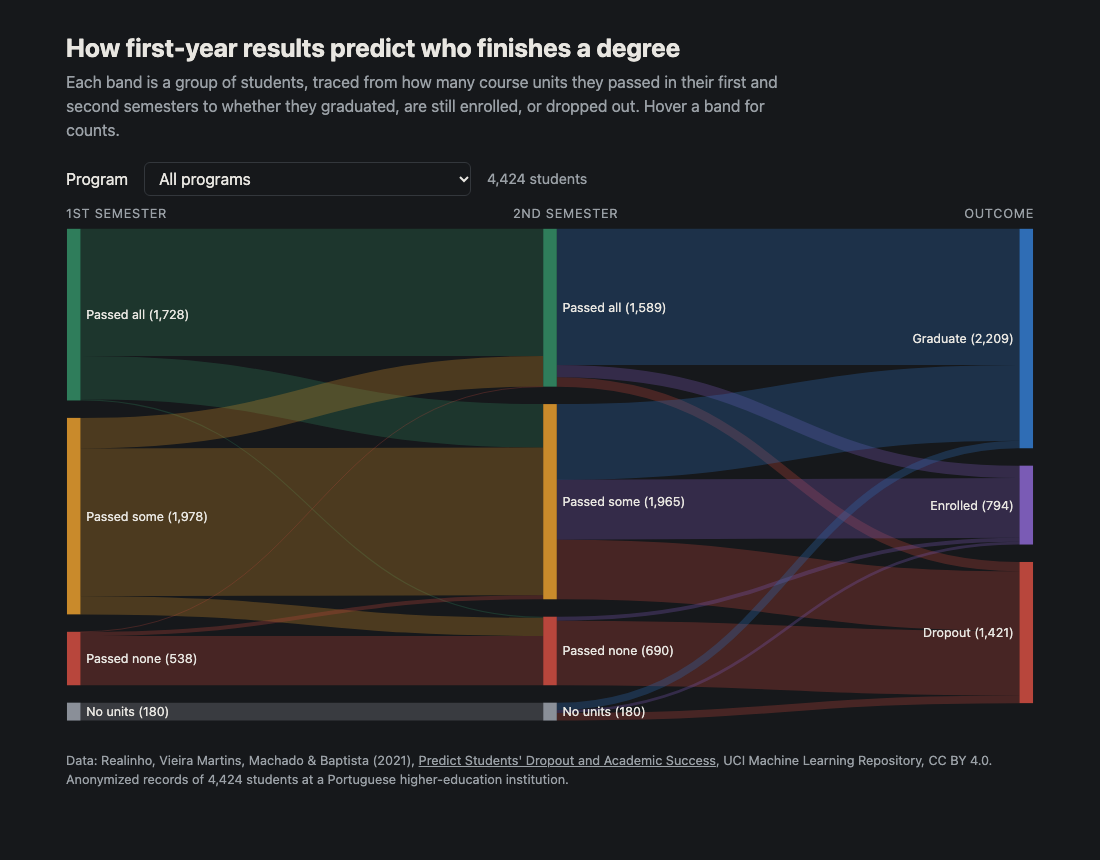
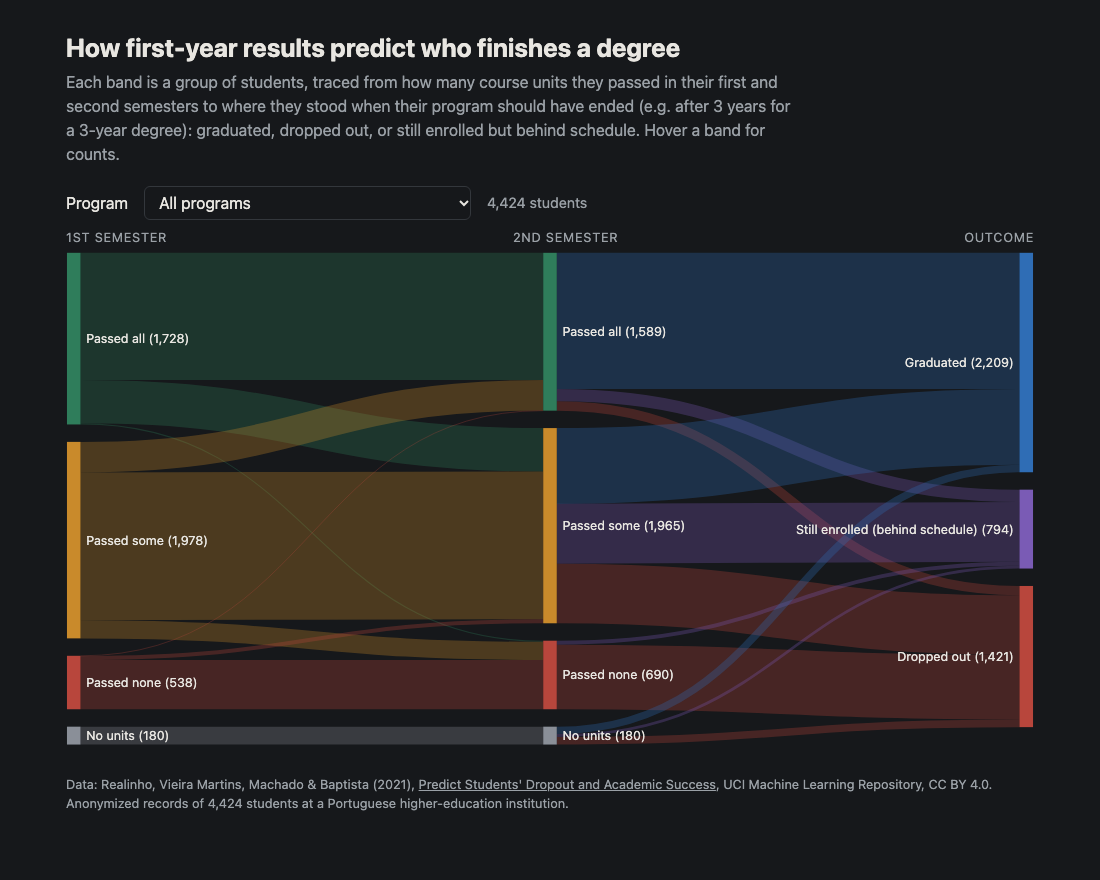
Clarify "Enrolled" outcome and refresh screenshot
The dataset measures outcome at the end of the program's normal
duration, so "Enrolled" means still studying but behind schedule.
Relabel outcomes (Graduated / Still enrolled (behind schedule) /
Dropped out) and explain it on the page and in the README.

diff --git a/docs/index.html b/docs/index.html
@@ -37,7 +37,8 @@
 <main>
   <h1>How first-year results predict who finishes a degree</h1>
   <p>Each band is a group of students, traced from how many course units they passed in their first and second
-     semesters to whether they graduated, are still enrolled, or dropped out. Hover a band for counts.</p>
+     semesters to where they stood when their program should have ended (e.g. after 3 years for a 3-year degree):
+     graduated, dropped out, or still enrolled but behind schedule. Hover a band for counts.</p>
 
   <div class="controls">
     <label for="program">Program</label>
@@ -65,7 +66,8 @@ const colorOf = name => {
   if (name.endsWith("Passed some")) return v("--some");
   if (name.endsWith("Passed none")) return v("--none");
   if (name.endsWith("No units")) return v("--nounits");
-  return { Graduate: v("--grad"), Enrolled: v("--enr"), Dropout: v("--drop") }[name];
+  if (name.startsWith("Still enrolled")) return v("--enr");
+  return { "Graduated": v("--grad"), "Dropped out": v("--drop") }[name];
 };
 const label = name => name.replace(/^Sem \d: /, "");
 const fmt = d3.format(",");

diff --git a/build_flows.py b/build_flows.py
@@ -41,6 +41,11 @@ PROGRAMS = {
 ALL = "All programs"
 RESULTS = ["Passed all", "Passed some", "Passed none", "No units"]
 OUTCOMES = ["Graduate", "Enrolled", "Dropout"]
+# The dataset's outcome is measured at the end of the program's normal duration
+# (e.g. 3 years for a 3-year degree), so "Enrolled" means still studying but
+# not finished on time.
+OUTCOME_LABELS = {"Graduate": "Graduated", "Enrolled": "Still enrolled (behind schedule)",
+                  "Dropout": "Dropped out"}
 
 
 def semester_result(row: dict, sem: str) -> str:
@@ -54,7 +59,8 @@ def semester_result(row: dict, sem: str) -> str:
 
 
 def build_graph(rows: list[dict]) -> dict:
-    stages = [[f"Sem 1: {r}" for r in RESULTS], [f"Sem 2: {r}" for r in RESULTS], OUTCOMES]
+    stages = [[f"Sem 1: {r}" for r in RESULTS], [f"Sem 2: {r}" for r in RESULTS],
+              [OUTCOME_LABELS[o] for o in OUTCOMES]]
     names = [n for stage in stages for n in stage]
     index = {n: i for i, n in enumerate(names)}
 
@@ -63,7 +69,7 @@ def build_graph(rows: list[dict]) -> dict:
         s1 = f"Sem 1: {semester_result(row, '1st')}"
         s2 = f"Sem 2: {semester_result(row, '2nd')}"
         counts[(s1, s2)] += 1
-        counts[(s2, row["Target"])] += 1
+        counts[(s2, OUTCOME_LABELS[row["Target"]])] += 1
 
     links = [{"source": index[a], "target": index[b], "value": v}
              for (a, b), v in sorted(counts.items(), key=lambda kv: (index[kv[0][0]], index[kv[0][1]]))]

diff --git a/README.md b/README.md
@@ -1,6 +1,6 @@
 # Student Flow Sankey
 
-An interactive Sankey diagram that traces students from their first-year course results to whether they graduated, are still enrolled, or dropped out, with a filter for each degree program.
+An interactive Sankey diagram that traces students from their first-year course results to where they stood when their program should have ended (graduated, dropped out, or still enrolled but behind schedule), with a filter for each degree program.
 
 It grew out of a 2018 undergraduate research project on student retention that asked: *how early can you see who will leave a program?* In this dataset the answer is the second semester. Of the 690 students who passed none of their second-semester units, **not one graduated**.
 
@@ -20,7 +20,9 @@ It grew out of a 2018 undergraduate research project on student retention that a
 data/students.csv  ->  build_flows.py  ->  docs/flows.json  ->  docs/index.html (D3 + d3-sankey)
 ```
 
-Each student is placed in a group for each semester based on curricular units **approved vs. enrolled**: *Passed all*, *Passed some*, *Passed none*, or *No units* (enrolled in nothing that term). `build_flows.py` counts how students move from semester 1 → semester 2 → final outcome. It writes one graph for all students plus one per program, which the page's dropdown switches between.
+Each student is placed in a group for each semester based on curricular units **approved vs. enrolled**: *Passed all*, *Passed some*, *Passed none*, or *No units* (enrolled in nothing that term). The outcome is each student's status **at the end of their program's normal duration** (for example, after 3 years of a 3-year degree), as defined by the dataset: *Graduated*, *Dropped out*, or *Still enrolled (behind schedule)*, meaning they hadn't finished on time but hadn't left either.
+
+`build_flows.py` counts how students move from semester 1 → semester 2 → final outcome. It writes one graph for all students plus one per program, which the page's dropdown switches between.
 
 ## Run it
 
